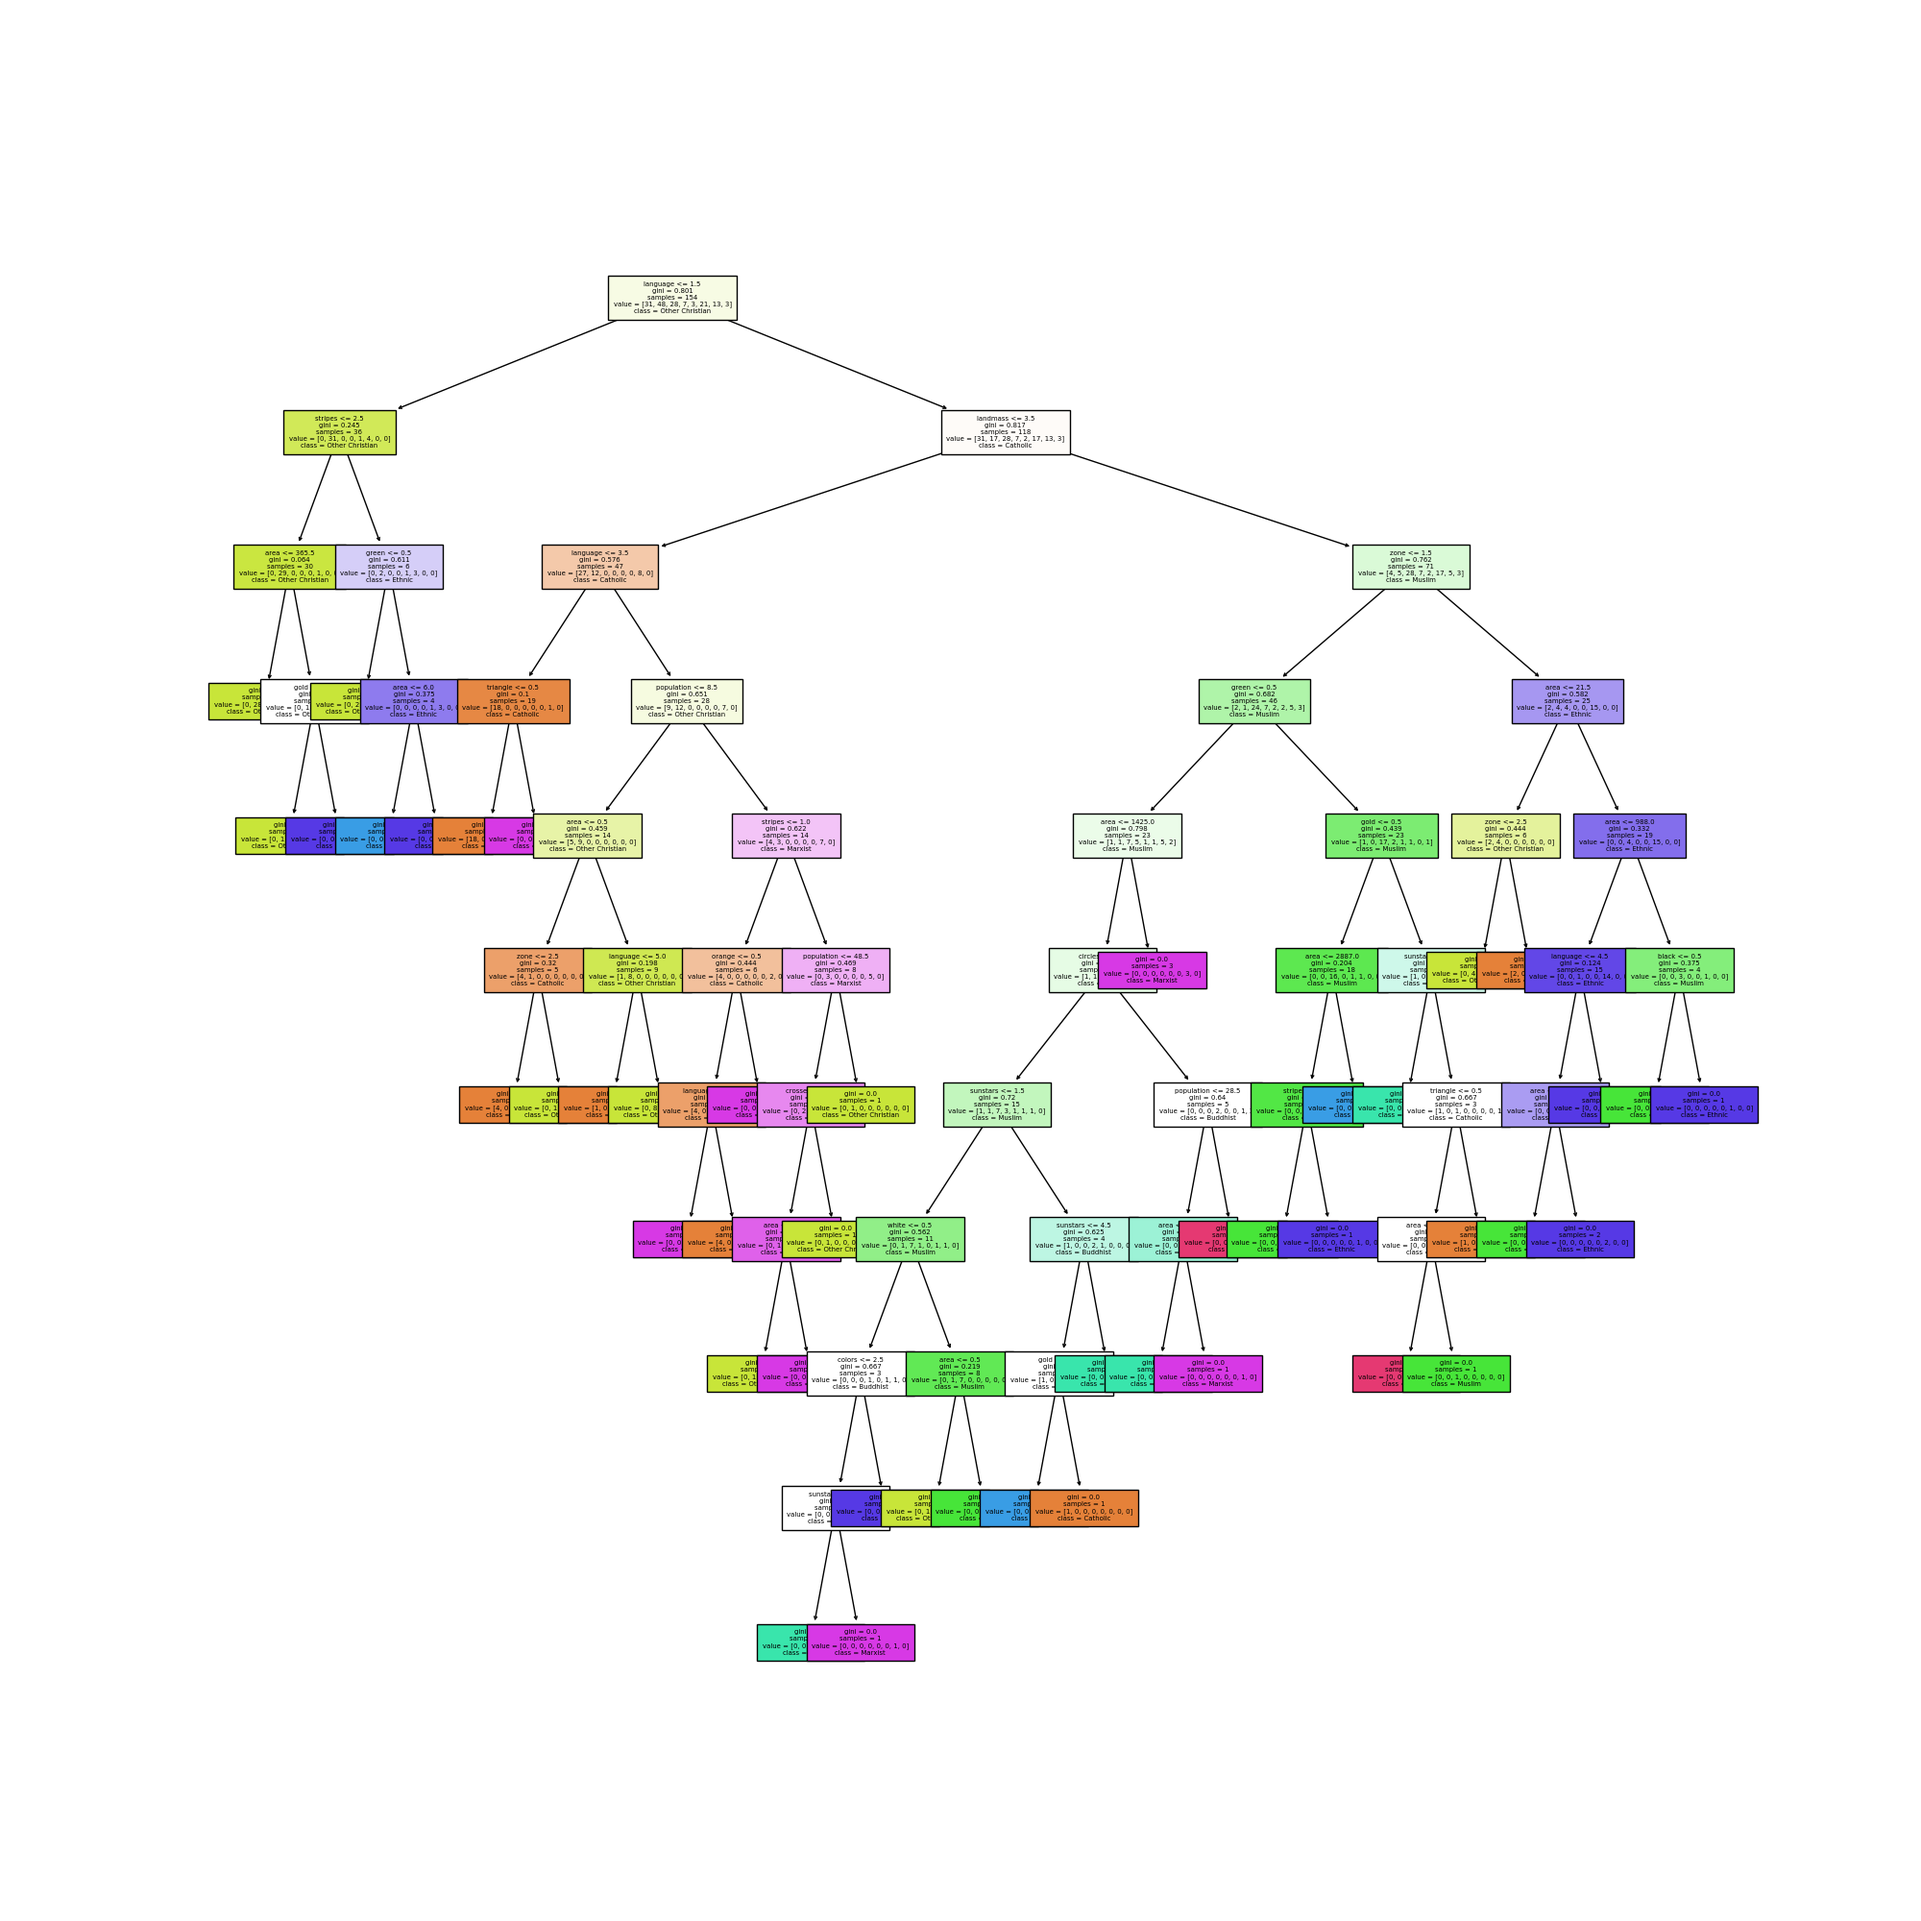
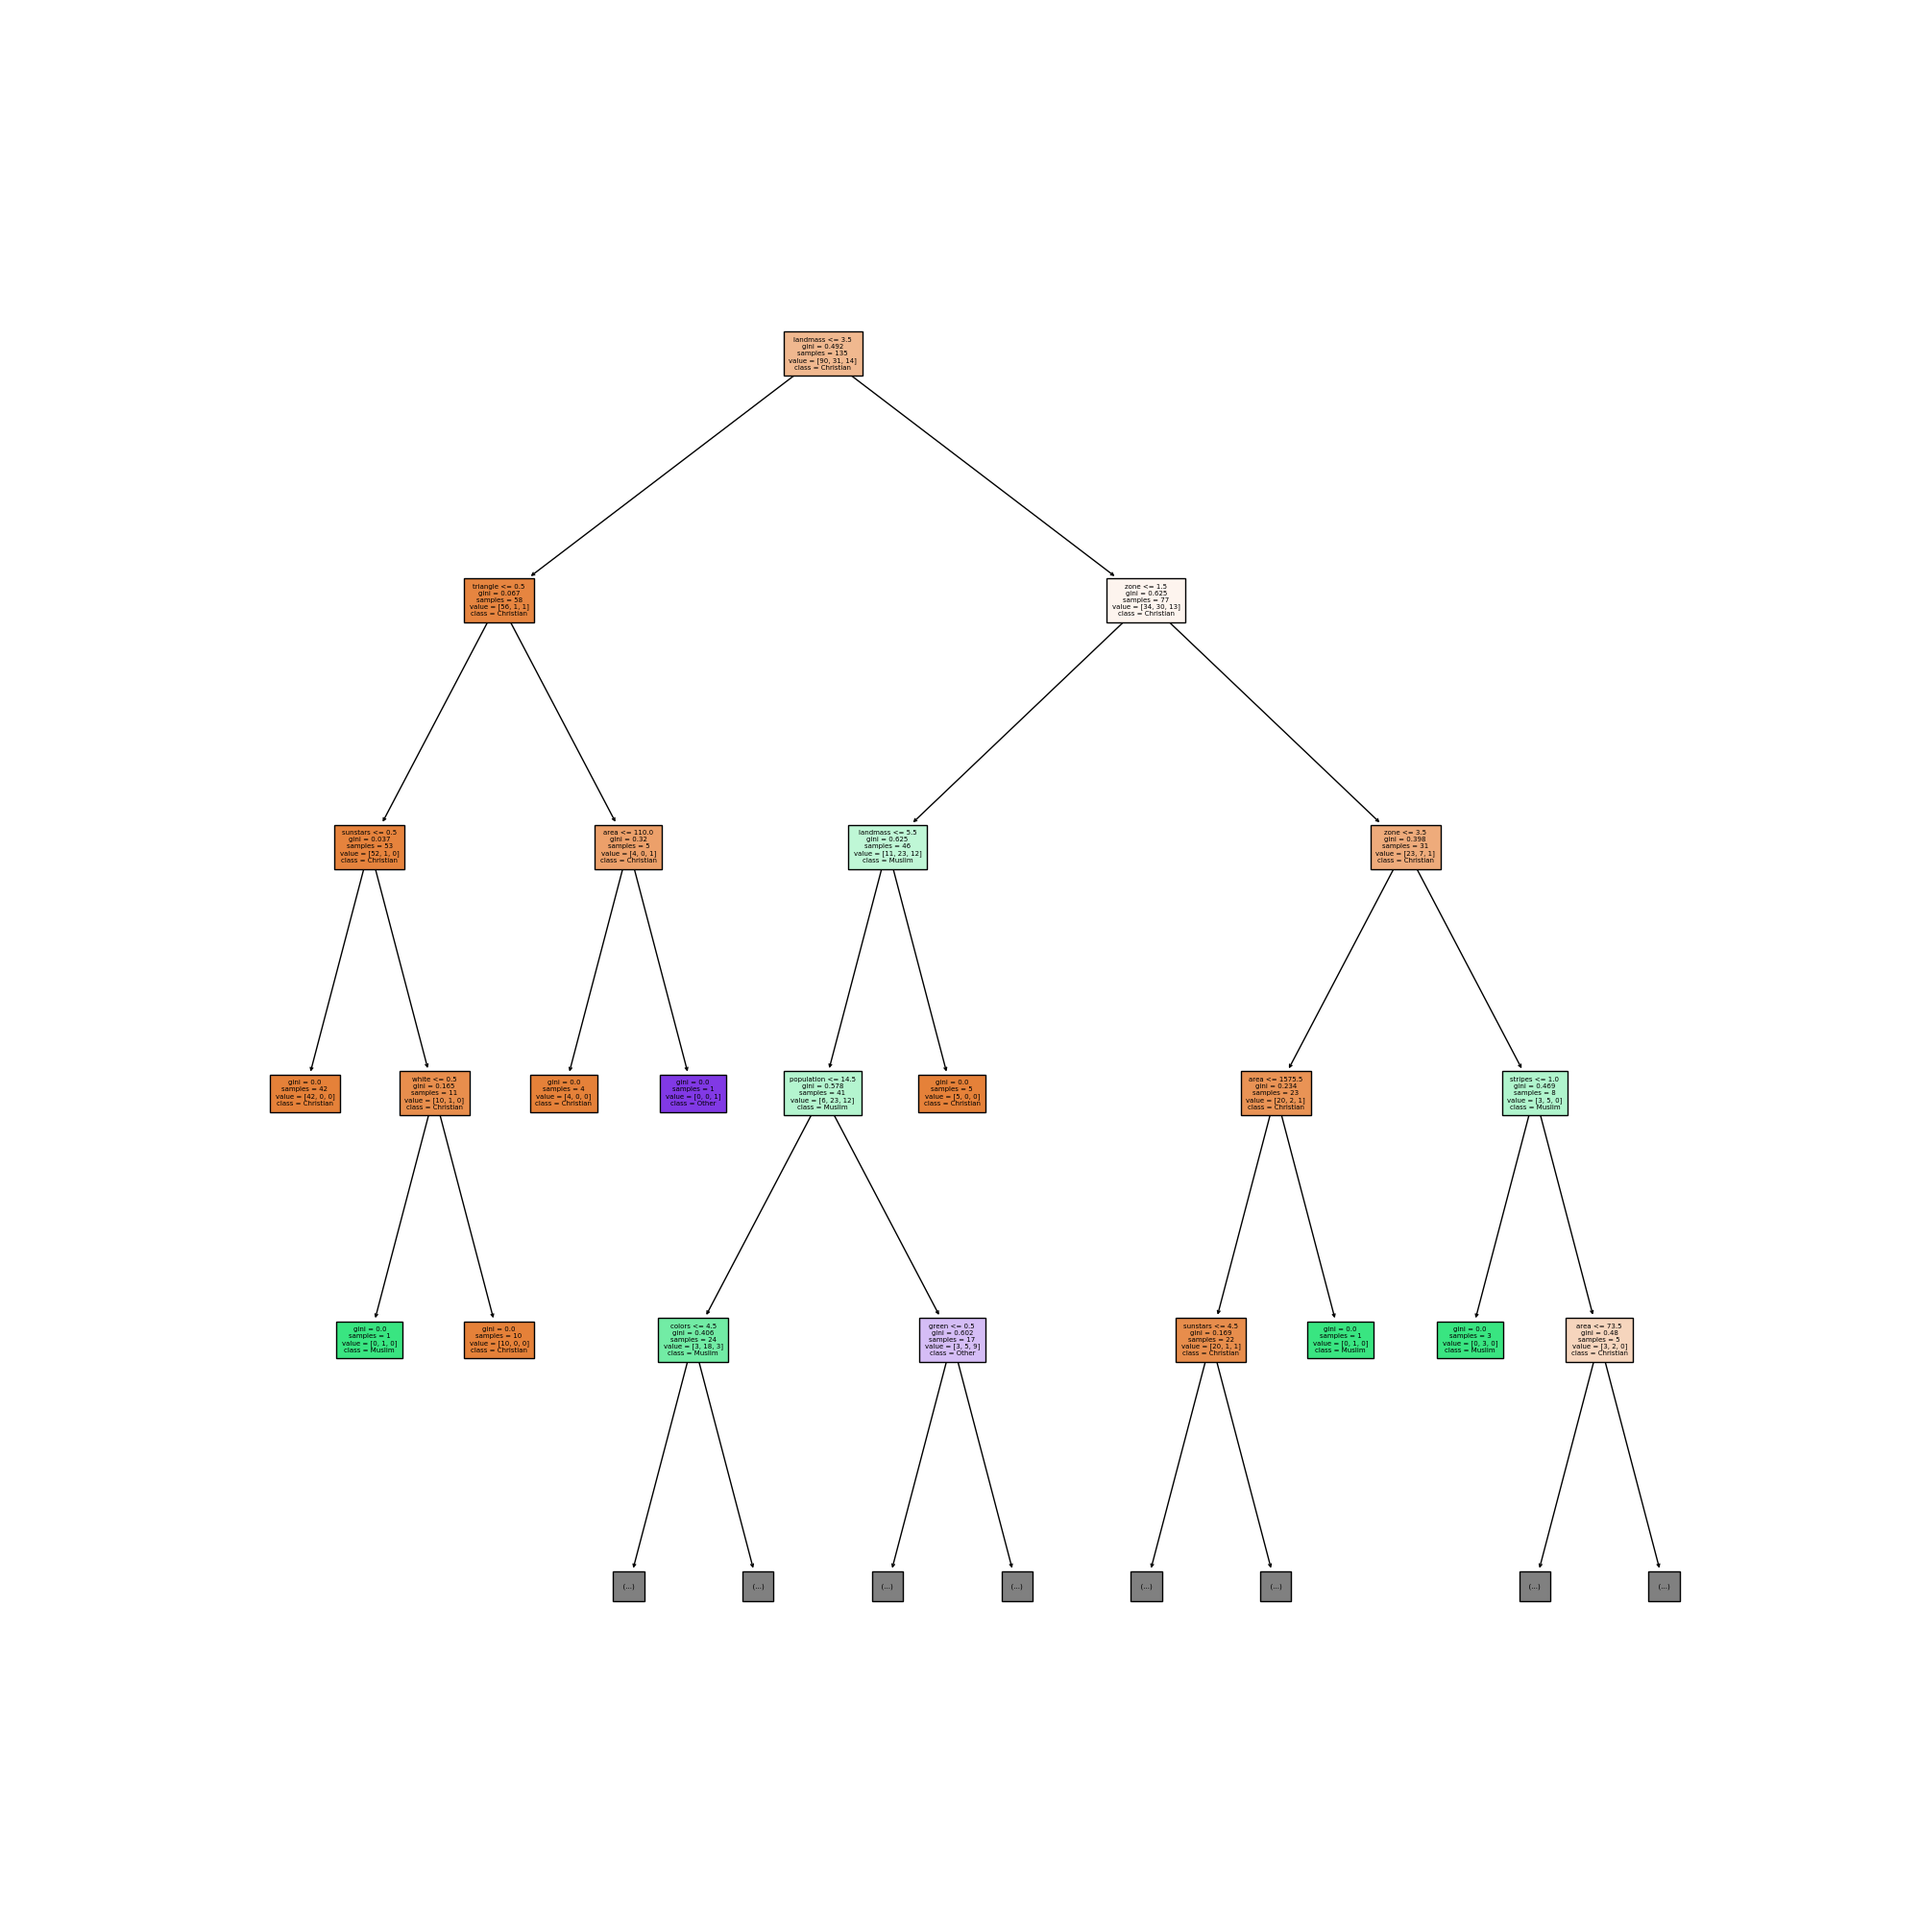
Cleaned up code to match new csv data

diff --git a/ReligionByFlag_KNNClassifier.py b/ReligionByFlag_KNNClassifier.py
@@ -2,28 +2,28 @@
 import numpy as np
 import pandas as pd
 import matplotlib.pyplot as plt
+import matplotlib.patches as patches
+from matplotlib.colors import ListedColormap
 from sklearn.model_selection import train_test_split
 from sklearn.neighbors import KNeighborsClassifier
-from sklearn.preprocessing import StandardScaler
-from matplotlib.colors import ListedColormap
-import matplotlib.patches as patches
+from sklearn.metrics import classification_report
 
 
 # Import data from csv file
 data = pd.read_csv('flags_data.csv', delimiter=',')
 
 # Pick the important attributes
-x = data.iloc[:, [3, 4]].values
+x = data.iloc[:, [1, 5]].values
 y = data.iloc[:, 29].values
 
 # Split into testing and training set
 x_train, x_test, y_train, y_test = train_test_split(x, y, test_size=.3)
 
 # Normalize data before making predictions
-normalize_scale = StandardScaler()
-normalize_scale.fit(x_train)
-x_train = normalize_scale.transform(x_train)
-x_test = normalize_scale.transform(x_test)
+# normalize_scale = StandardScaler()
+# normalize_scale.fit(x_train)
+# x_train = normalize_scale.transform(x_train)
+# x_test = normalize_scale.transform(x_test)
 
 # Create x and y ranges for the plot
 x_min = x_train[:, 0].min() - 1
@@ -33,8 +33,7 @@ y_max = x_train[:, 1].max() + 1
 x_grid, y_grid = np.meshgrid(np.arange(x_min, x_max, .01), np.arange(y_min, y_max, .01))
 
 # Use KNN classifier to predict religion
-neighbors = 5
-kNN_class = KNeighborsClassifier(neighbors, weights='distance')
+kNN_class = KNeighborsClassifier(n_neighbors=5, weights='distance')
 kNN_class.fit(x_train, y_train)
 z = kNN_class.predict(np.c_[x_grid.ravel(), y_grid.ravel()])
 z_grid = z.reshape(x_grid.shape)
@@ -44,12 +43,12 @@ plt.figure()
 light_Colors = ListedColormap(['#F39D9D', '#93F088', '#67AAF1'])
 dark_Colors = ListedColormap(['#F32C2C', '#219912', '#0E67C5'])
 plt.pcolormesh(x_grid, y_grid, z_grid, cmap=light_Colors)
-plt.scatter(x_train[:, 0], x_train[:, 1], c=y_train, cmap=dark_Colors)
+plt.scatter(x_train[:, 0], x_train[:, 1], cmap=dark_Colors, c=y_train)
 plt.xlim(x_grid.min(), x_grid.max())
 plt.ylim(y_grid.min(), y_grid.max())
 plt.title('Religion 5-NN Classifier')
-plt.xlabel('area')
-plt.ylabel('population')
+plt.xlabel('landmass')
+plt.ylabel('language')
 red_patch = patches.Patch(color='red', label='Christian')
 green_patch = patches.Patch(color='green', label='Islam')
 blue_patch = patches.Patch(color='blue', label='Other')
@@ -57,3 +56,21 @@ plt.legend(loc='center left', bbox_to_anchor=(1, 0.5), handles=[red_patch, green
 plt.tight_layout()
 plt.show()
 
+y_prediction = kNN_class.predict(x_test)
+print(classification_report(y_test, y_prediction))
+
+# Calculate error for KNN from 1 to 25
+errors = []
+for i in range(1, 25):
+    knn = KNeighborsClassifier(n_neighbors=i, weights='distance')
+    knn.fit(x_train, y_train)
+    y_prediction = knn.predict(x_test)
+    errors.append(np.mean(y_prediction != y_test))
+
+# Plot KNN Classifier error
+plt.figure()
+plt.plot(range(1, 25), errors, color='red', marker='o', markersize=8)
+plt.title('K-Value Error Rate')
+plt.xlabel('K-Value')
+plt.ylabel('Error')
+plt.show()

diff --git a/ReligionByFlag_DecisionTree.py b/ReligionByFlag_DecisionTree.py
@@ -5,24 +5,21 @@ from sklearn.model_selection import train_test_split
 
 data = pd.read_csv("flags_data.csv")
 
-#Drop more data later, tree is too large
-X = data.drop(['religion', 'topleft', 'botright', 'name', 'mainhue'], axis=1)
+# Drop more data later, tree is too large
+x = data.drop(['religion', 'topleft', 'botright', 'name', 'mainhue'], axis=1)
 y = data['religion']
-
-X_train, X_test, y_train, y_test = train_test_split(X, y, test_size=0.20)
-
+x_train, x_test, y_train, y_test = train_test_split(x, y, test_size=0.30)
 classifier = tree.DecisionTreeClassifier()
-classifier.fit(X_train, y_train)
-
-y_pred = classifier.predict(X_test)
-
+classifier.fit(x_train, y_train)
+y_pred = classifier.predict(x_test)
 feature_arr = ['landmass','zone','area','population','language','bars','stripes','colors','red','green','blue','gold','white','black','orange','circles','crosses','saltires','quarters','sunstars','crescent','triangle','icon','animate','text']
-class_arr = ['Catholic', 'Other Christian', 'Muslim', 'Buddhist', 'Hindu', 'Ethnic', 'Marxist', 'Others']
+class_arr = ['Christian', 'Muslim', 'Other']
 
-fig, ax = plt.subplots(figsize=(20,20))
+fig, ax = plt.subplots(figsize=(20, 20))
 
-#Tree is too large to display properly, change max depth, fontsize and DPI to adjust info/size
-tree.plot_tree(classifier, feature_names= feature_arr, class_names= class_arr, ax=ax, filled=True, fontsize = 5) #max_depth=4
-#save tree as png if you want to zoom in
+# Tree is too large to display properly, change max depth, fontsize and DPI to adjust info/size
+tree.plot_tree(classifier, feature_names=feature_arr, class_names=class_arr, ax=ax, filled=True, fontsize=5, max_depth=4) #max_depth=4
+# Save tree as png if you want to zoom in
 plt.savefig('flag_tree', dpi=100)
+plt.tight_layout()
 plt.show()
